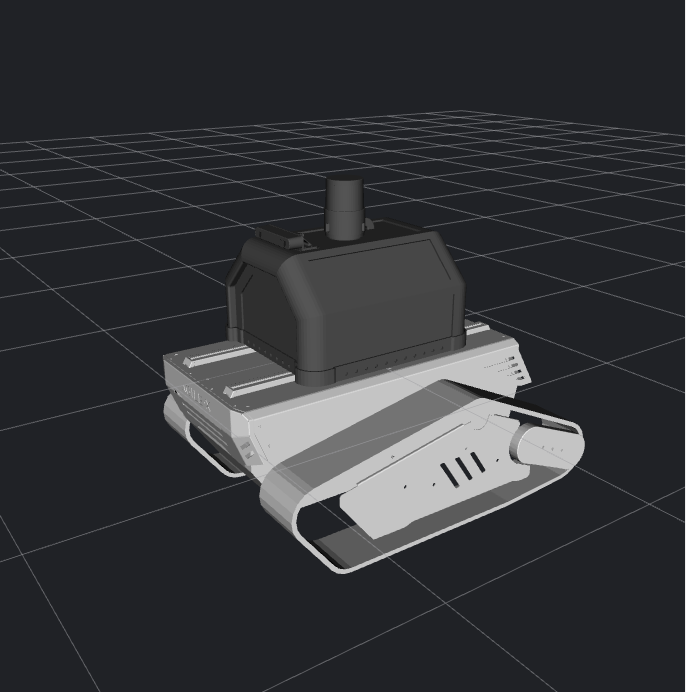
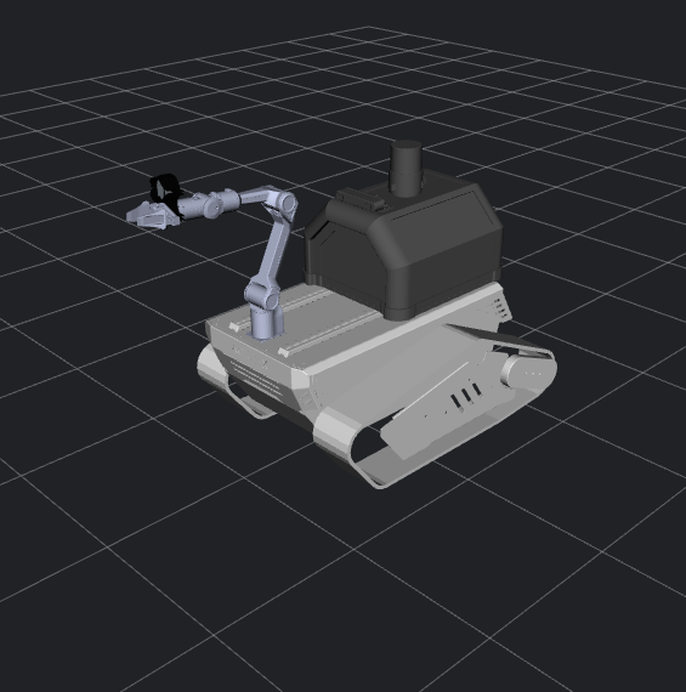
docs: show integrated PiPER robot in README hero

diff --git a/README.md b/README.md
@@ -4,7 +4,7 @@
 
 **A ROS 2 autonomy stack for language-guided object search, gesture-authorized human following, and LiDAR-inertial localization on Bunker Pro 2.**
 
-<img src="docs/assets/readme/track-robot-hero.png" alt="Bunker Pro 2 Track Robot sensor-station model in RViz" width="720">
+<img src="docs/assets/readme/track-robot-hero.png" alt="Bunker Pro 2 Track Robot with integrated PiPER arm and sensor station in RViz" width="720">
 
 ![ROS 2 Foxy](https://img.shields.io/badge/ROS_2-Foxy-22314E?logo=ros&logoColor=white)
 ![Ubuntu 20.04](https://img.shields.io/badge/Ubuntu-20.04-E95420?logo=ubuntu&logoColor=white)
